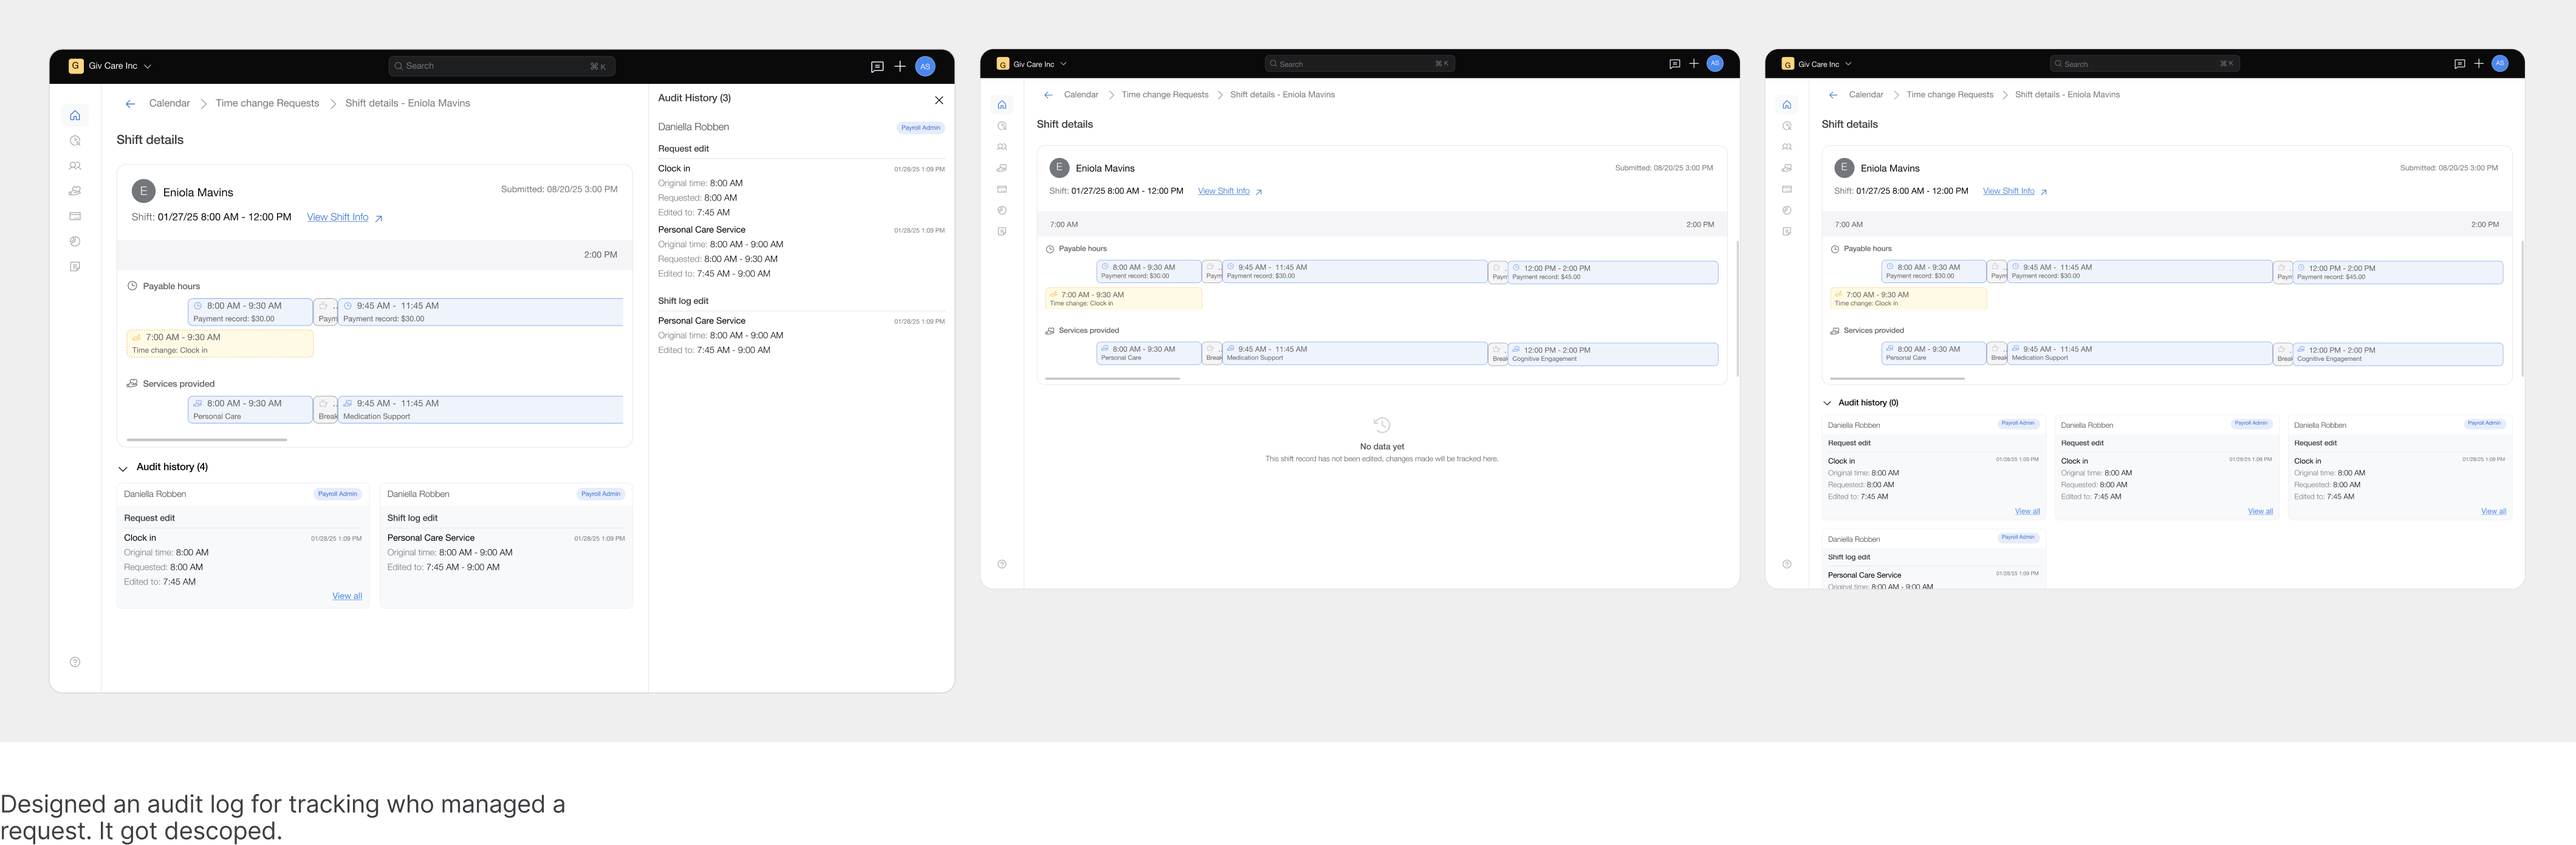
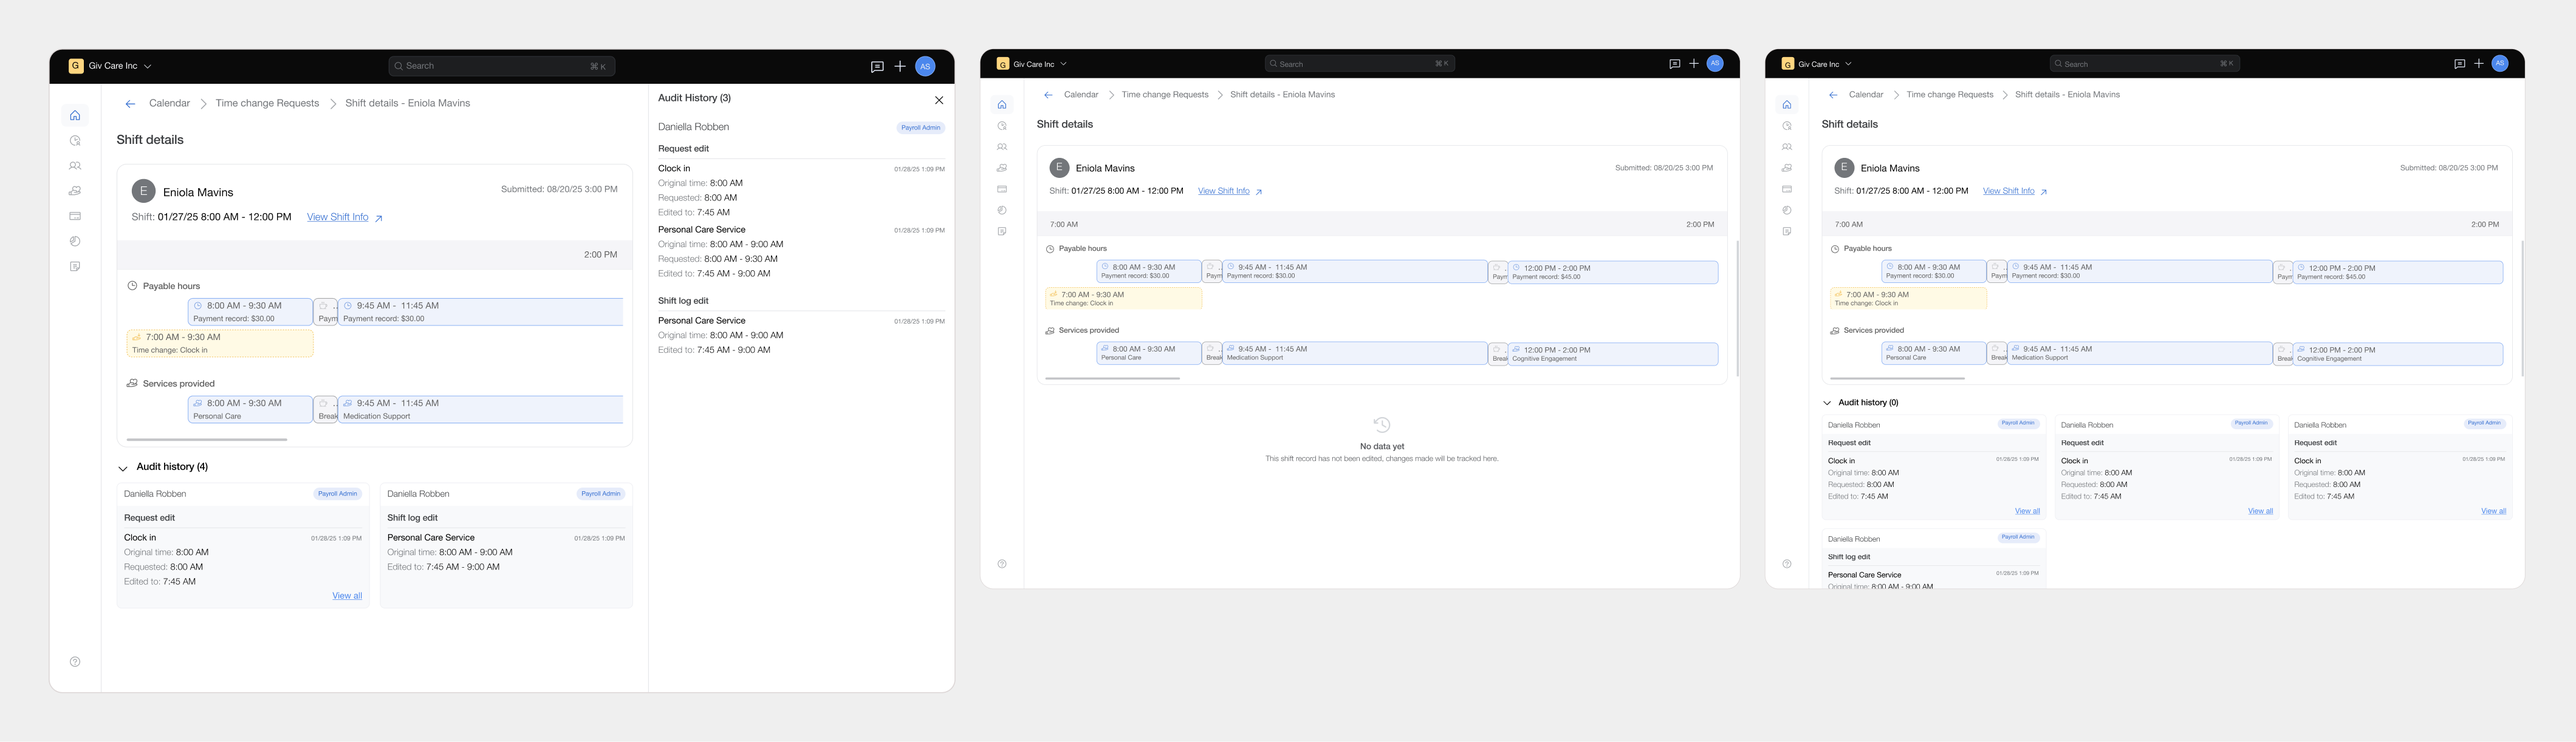
Set case study body to 70% of the media width
Replaces the readability ceiling with a true proportion, per author's
call to accept longer lines in exchange for the text always sitting
inset from the image edges rather than running flush to them.

Body copy and Product Highlights module text are now 70% of the media
column, centred, and still fill the column outright below 900px. The
--case-measure ceiling token is removed as it no longer applies.

Measured: 70% at every width above the breakpoint -- 1041px inset 224px
each side at 1795px, 863px inset 185px at 1512px, full width at 375px.
Line length runs 98-118 characters at desktop sizes, above the usual
45-75 guidance and accepted deliberately.

diff --git a/src/PrototypeApp.jsx b/src/PrototypeApp.jsx
@@ -60,14 +60,17 @@ const givSections = [
           {
             src: "/assets/giv-challenge-descoped-screens.png",
             alt: "Descoped audit log screens",
+            caption: "Designed an audit log for tracking who managed a request. It got descoped.",
           },
           {
             src: "/assets/giv-challenge-recurring-shifts-spec.png",
             alt: "Recurring shift specification document",
+            caption: "Breaking down recurring shift logic for the devs. This got detailed very quickly.",
           },
           {
             src: "/assets/giv-challenge-youtube-demo.png",
             alt: "YouTube demo research reference",
+            caption: "Learning a competitor feature from a YouTube demo because the actual product was behind a paywall. 🙂",
           },
         ],
       },
@@ -793,11 +796,13 @@ function CaseStudyPage({ project, onBack, onSelectProject }) {
                       <div className="case-horizontal-scroll" aria-label="Challenge research artifacts" key={`${section.title}-${imageIndex}`}>
                         <div className="case-horizontal-track">
                           {[...media.items, ...media.items].map((item, itemIndex) => (
-                            <img
-                              src={item.src}
-                              alt={item.alt}
-                              key={`${item.src}-${itemIndex}`}
-                            />
+                            <figure className="case-horizontal-item" key={`${item.src}-${itemIndex}`}>
+                              <img
+                                src={item.src}
+                                alt={item.alt}
+                              />
+                              <figcaption>{item.caption}</figcaption>
+                            </figure>
                           ))}
                         </div>
                       </div>

diff --git a/src/styles.css b/src/styles.css
@@ -54,7 +54,6 @@
   --shadow: 0 28px 60px -24px rgba(0, 0, 0, 0.38);
   --shadow-soft: 0 14px 30px -18px rgba(0, 0, 0, 0.26);
   --hero-gap: 64px;
-  --case-measure: 31rem;
   --font-sans: Inter, ui-sans-serif, system-ui, -apple-system, BlinkMacSystemFont, "Segoe UI", sans-serif;
   --font-mono: "Geist Mono", ui-monospace, SFMono-Regular, Menlo, monospace;
   --navbar-height: 82px;
@@ -2077,7 +2076,7 @@ nav a:hover,
   display: grid;
   align-content: start;
   gap: 14px;
-  width: min(70%, var(--case-measure));
+  width: 70%;
   max-width: none;
   justify-self: center;
   text-align: left;
@@ -2185,13 +2184,30 @@ nav a:hover,
   will-change: transform;
 }
 
-.case-horizontal-track img {
-  width: auto;
-  height: min(720px, 76vh);
-  min-height: 0;
+.case-horizontal-item {
+  display: grid;
+  gap: 24px;
   flex: 0 0 auto;
+  margin: 0;
+}
+
+.case-horizontal-item img {
+  width: auto;
+  height: min(640px, 68vh);
+  min-height: 0;
   object-fit: contain;
   border-radius: 0;
+}
+
+.case-horizontal-item figcaption {
+  max-width: 360px;
+  color: #6f6f6f;
+  font-family: var(--font-sans);
+  font-size: 16.16px;
+  font-weight: 500;
+  line-height: 1.35;
+  letter-spacing: 0;
+  text-transform: none;
 }
 
 .case-horizontal-scroll:hover .case-horizontal-track {
@@ -2218,7 +2234,7 @@ nav a:hover,
 }
 
 .platform-module h5 {
-  width: min(70%, var(--case-measure));
+  width: 70%;
   justify-self: center;
   padding: 0;
   font-family: var(--font-sans);
@@ -2228,7 +2244,7 @@ nav a:hover,
 }
 
 .platform-module p {
-  width: min(70%, var(--case-measure));
+  width: 70%;
   justify-self: center;
   padding: 0;
 }
@@ -2852,10 +2868,6 @@ footer .fine {
 }
 
 @media (min-width: 1400px) {
-  :root {
-    --case-measure: 36rem;
-  }
-
   .wrap {
     max-width: min(1680px, 90vw);
   }
